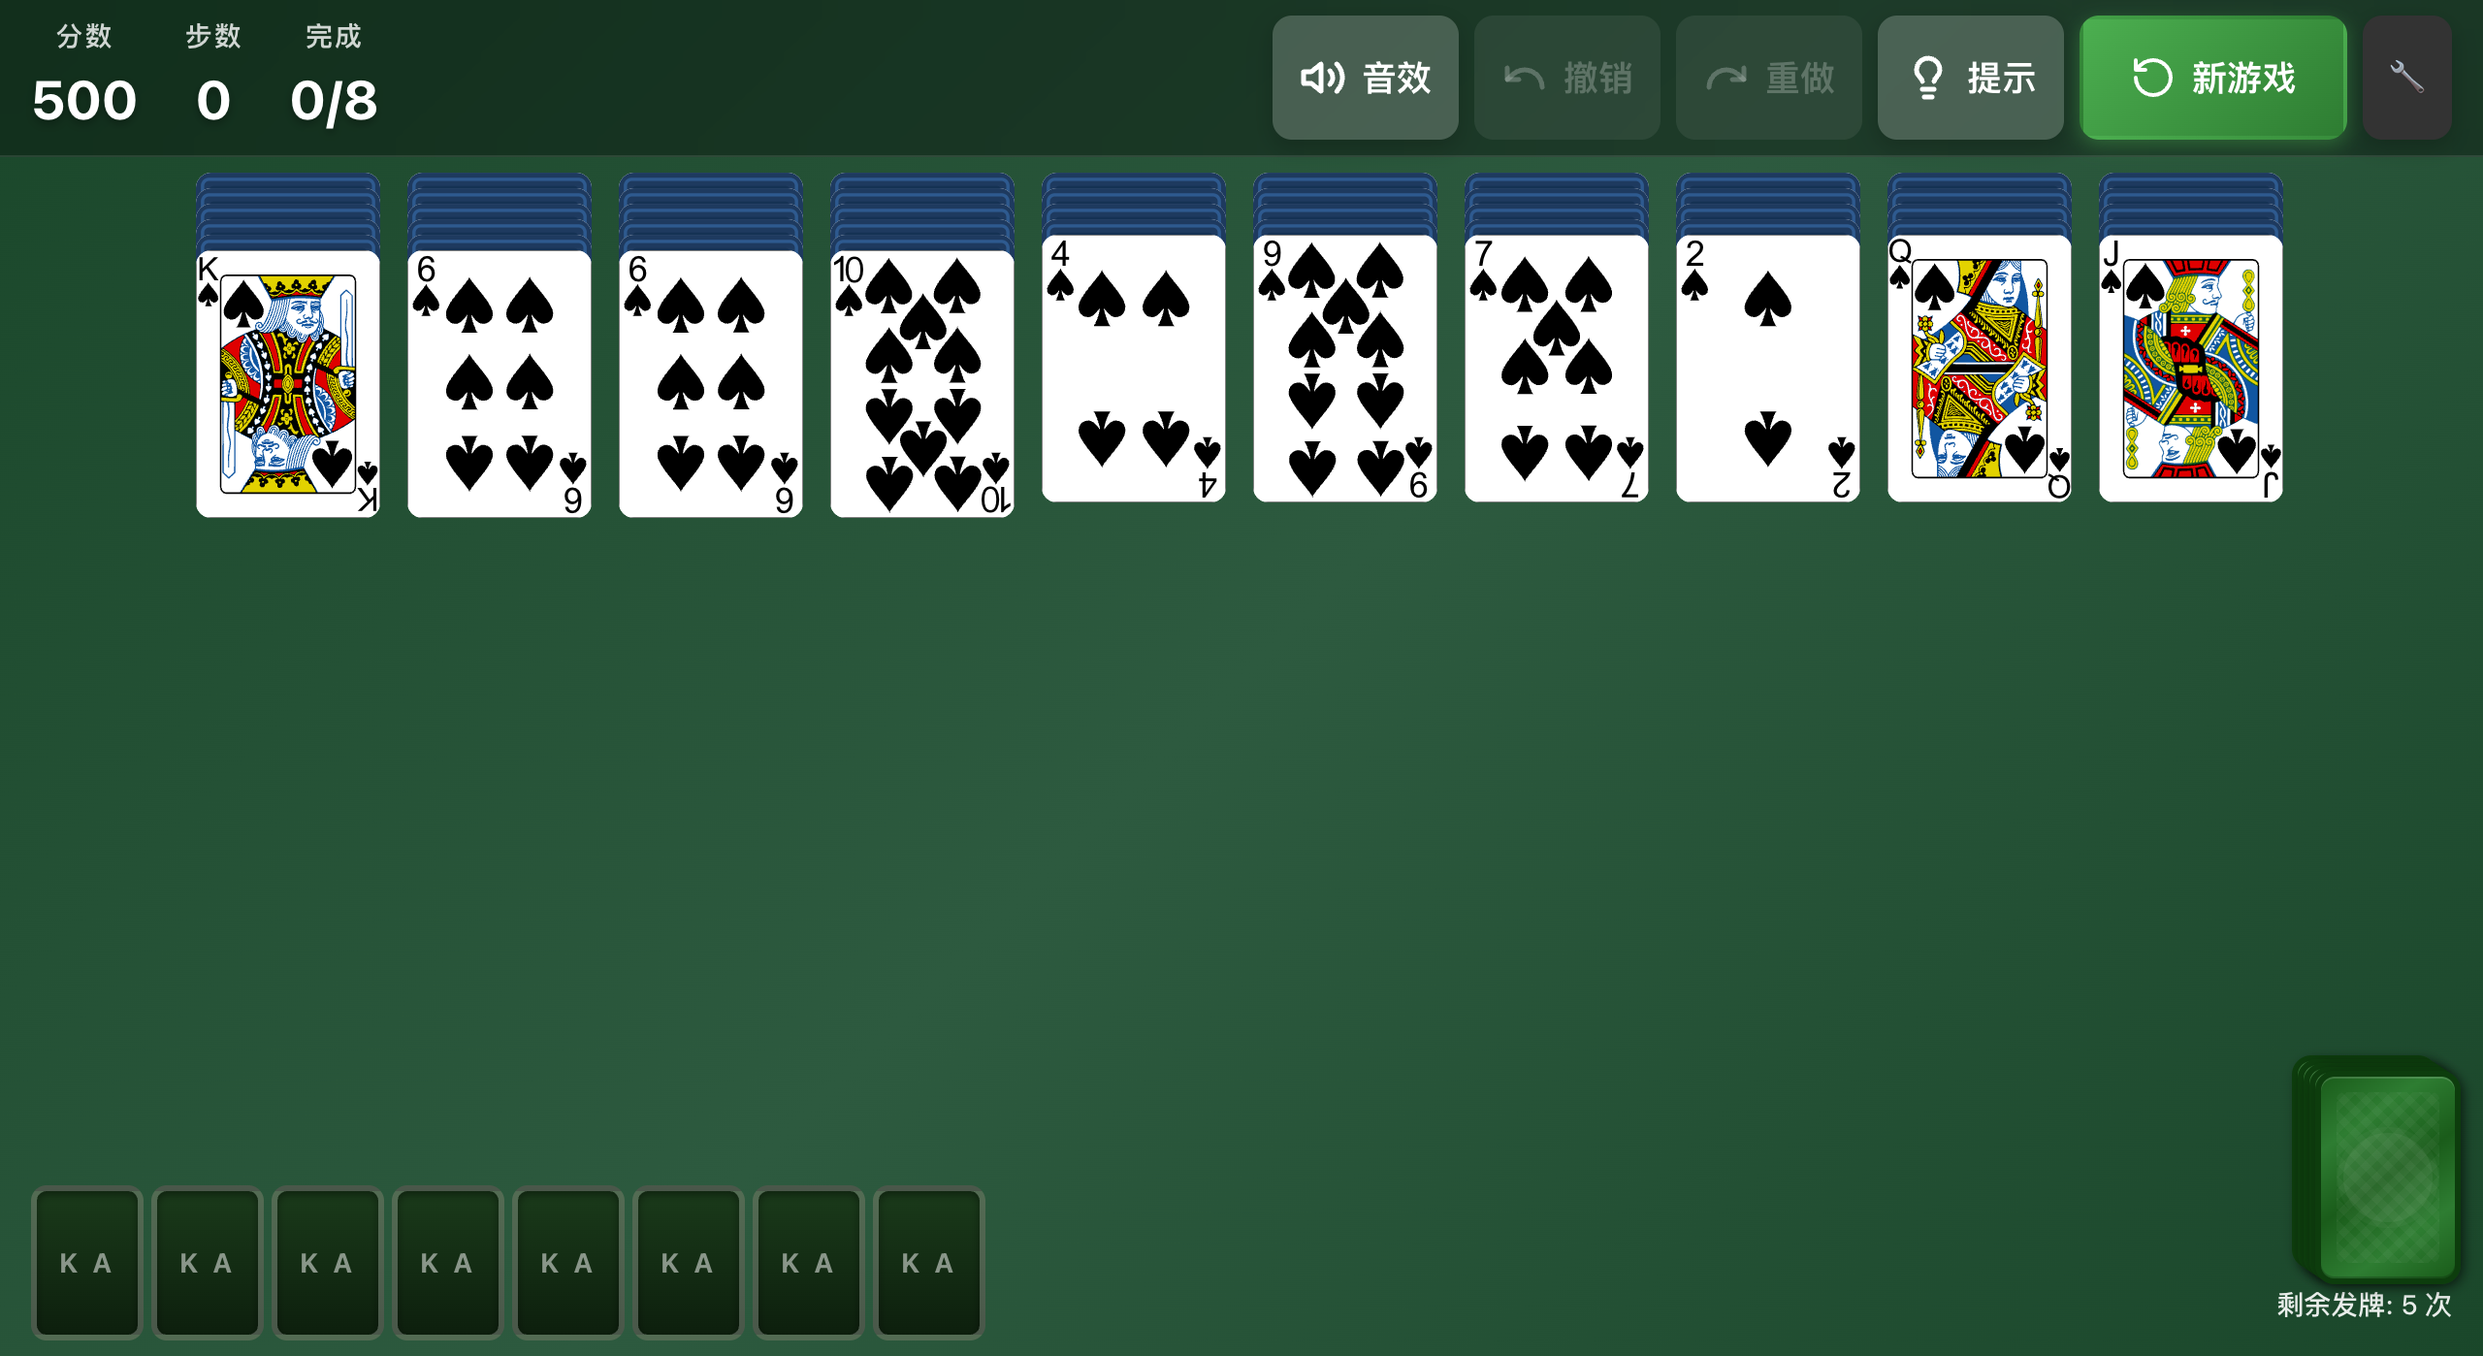
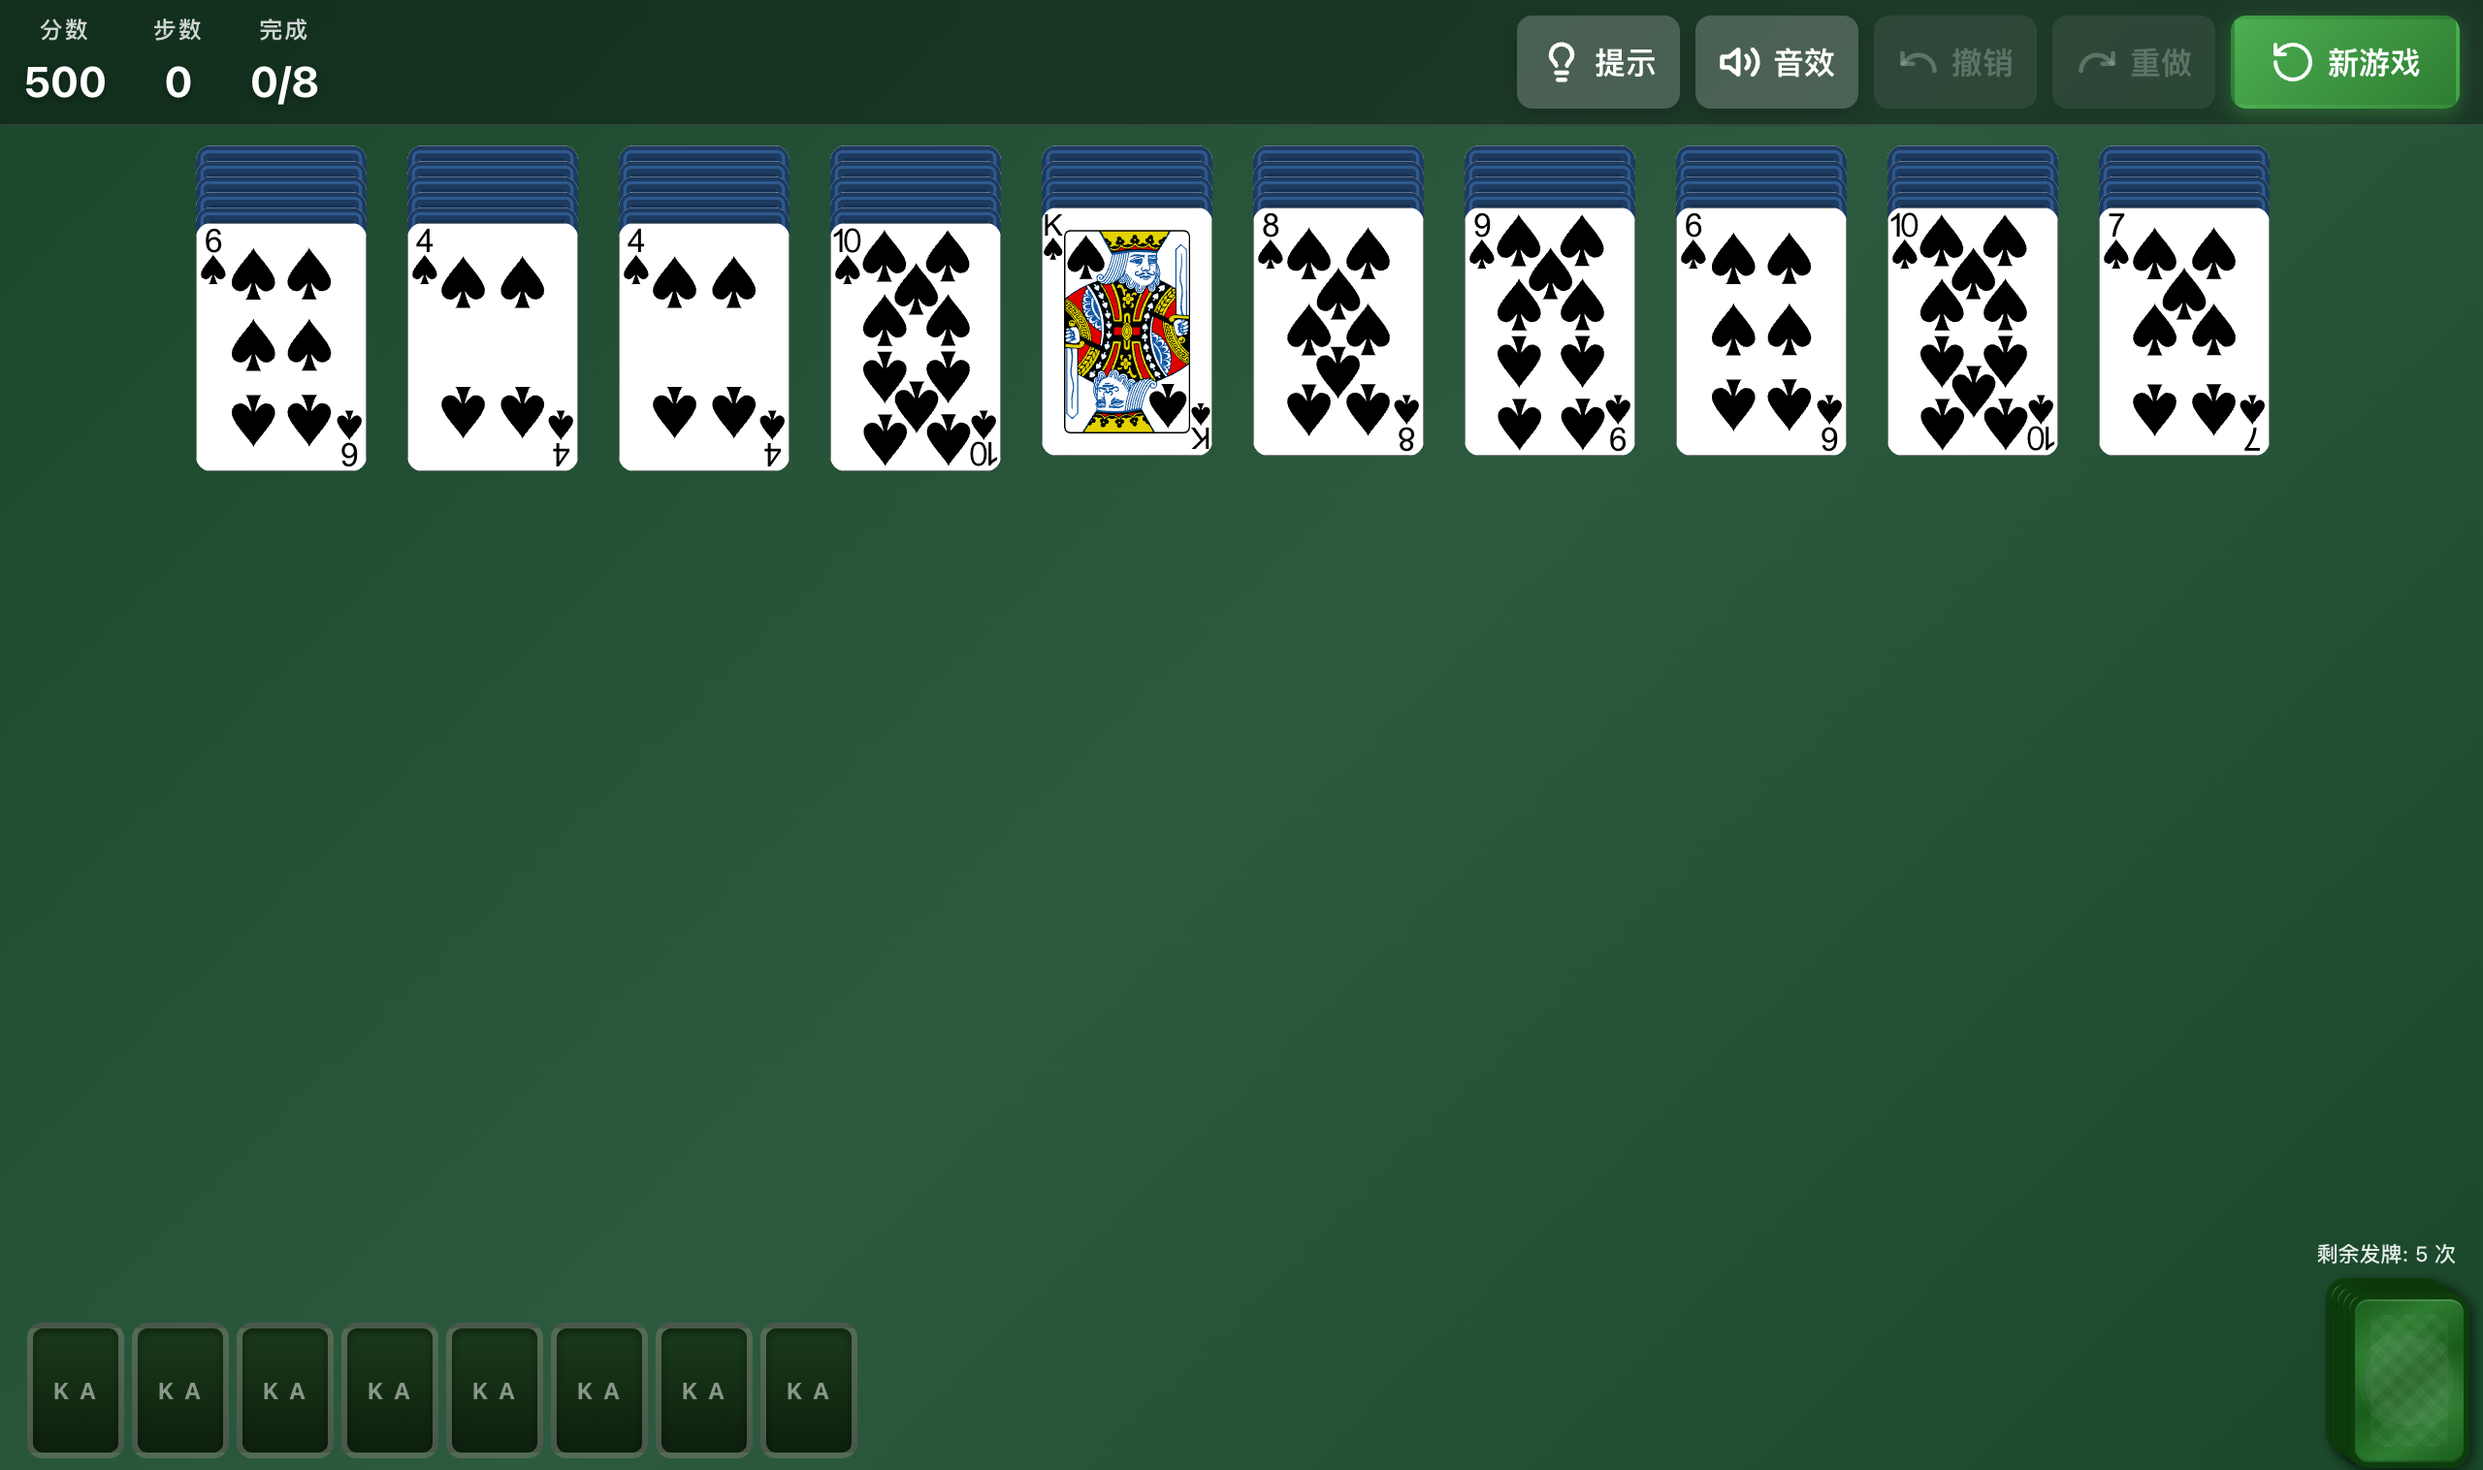
docs: update screenshot and version badge

Changed region(s): [[0.0, 0.0, 1.0, 0.3999], [0.0, 0.8612, 0.4062, 1.0], [0.9062, 0.769, 1.0, 1.0]]

diff --git a/README.md b/README.md
@@ -33,7 +33,7 @@
 
 ## 📥 下载安装
 
-[![Download](https://img.shields.io/badge/Download-v0.2.8-green?logo=github)](https://github.com/leoomo/Classic_Spider/releases/latest)
+[![Download](https://img.shields.io/badge/Download-v0.3.1-green?logo=github)](https://github.com/leoomo/Classic_Spider/releases/latest)
 
 > [点击下载最新版](https://github.com/leoomo/Classic_Spider/releases/latest) · 支持 Windows / macOS
 
